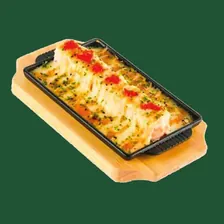
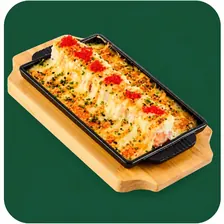
Update photo — Sushi Gratiné

diff --git a/src/data/dishImages.ts b/src/data/dishImages.ts
@@ -21,7 +21,7 @@ export const CLIENT_DISH_IMAGES: Record<string, string> = {
   "140ae41112": "/starters-hd/goma-wakame.jpg",
 
   // Sushi Fusion — visuels client WhatsApp 13.28.07
-  "1842edff6e": "/menu-hd-onglet3/sushi-gratine.png",
+  "1842edff6e": "/menu-hd-onglet3/sushi-gratine.jpg",
   "da6c1fe793": "/menu-hd-onglet3/pizza-saumon-crabe.png",
   "f6cb920bcd": "/menu-hd-onglet3/pizza-tropicale.png",
   "0ba6c99141": "/menu-hd-onglet3/pizza-saumon-mozza.png",

diff --git a/src/data/yumloMenu.ts b/src/data/yumloMenu.ts
@@ -226,7 +226,7 @@ export const YUMLO_MENU = [
     "description": "Gratiné au choix — sauce maison.",
     "priceMAD": "78.00",
     "currency": "MAD",
-    "image": "/menu-hd-onglet3/sushi-gratine.png",
+    "image": "/menu-hd-onglet3/sushi-gratine.jpg",
     "variants": [
       { "id": "gambas", "label": "Gambas", "priceMAD": "78.00" },
       { "id": "saumon-crabe", "label": "Saumon Crabe", "priceMAD": "78.00" },
